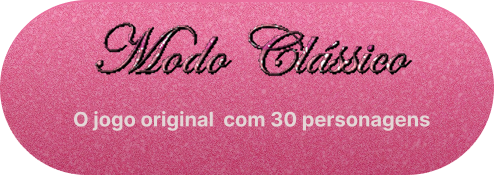
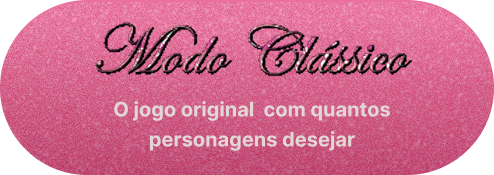
add personagens

Changed region(s): [[0.1518, 0.5714, 0.8806, 0.8571]]

diff --git a/src/pages/marrykiss/MarryKiss.jsx b/src/pages/marrykiss/MarryKiss.jsx
@@ -3,10 +3,6 @@ import { FaHeart, FaKiss, FaSkull, FaSave, FaArrowLeft, FaCheck, FaClock, FaCrow
 import html2canvas from 'html2canvas';
 import './MarryKiss.css';
 
-// const marrySound = new Audio('/sounds/plim.mp3');
-// const kissSound = new Audio('/sounds/kiss.mp3');
-// const killSound = new Audio('/sounds/roblox-death.mp3');
-
 const GameModeSelector = ({ onSelectMode }) => {
   const gameModes = [
     { id: 'classic', image: '/images/modo-classico.png' },
@@ -204,8 +200,6 @@ const [categories, setCategories] = useState([
   return (
     <div className="config-modal">
 
-
-
 <div className="config-content2 fundo-modo2">
   <div className="align-content">
     <img 
@@ -252,9 +246,6 @@ const [categories, setCategories] = useState([
     </button>
   </div>
 </div>
-
-
-
 
     </div>
   );
@@ -314,10 +305,10 @@ const GameScreen = ({ mode, config, onBack }) => {
 
   const characterPool = {
     heroes: ['clark-kent', 'tony-stark', 'batman', 'thor', 'superman', 'deadpool', 'capitao-america', 'loki', 'peter-parker', 'bucky'],
-    actors: ['wagner-moura', 'pedro-novaes', 'vladimir-brichta', 'the-rock', 'rodrigo-hilbert', 'michael-b-jordan', 'adriano', 'ronaldo-sobral', 'rodrigo-simas', 'tom-hiddleston', 'brad-pitt', 'leonardo-dicaprio', 'johnny-depp', 'tom-cruise', 'jason-momoa', 'keanu-reeves', 'ryan-reynolds', 'tom-holland', 'hugh-jackman'],
-    singers: ['harry-styles', 'justin-bieber', 'shawn-mendes', 'zayn-malik', 'bruno-mars'],
-    brazilians: ['wagner-moura', 'pedro-novaes', 'vladimir-brichta', 'rodrigo-hilbert', 'adriano', 'ronaldo-sobral', 'rodrigo-simas'],
-    characters: ['ben-10', 'damon-salvatore', 'christian-grey', 'dean-winchester', 'toretto', 'george-weasley', 'thomas-shelby', 'detona-ralph', 'sherlock-holmes', 'jack-frost', 'raposa-do-zootopia', 'harry-potter', 'draco-malfoy', 'croods', 'javier-pena']
+    actors: ['wagner-moura', 'pedro-novaes', 'vladimir-brichta', 'the-rock', 'rodrigo-hilbert', 'michael-b-jordan', 'adriano', 'ronaldo-sobral', 'rodrigo-simas', 'tom-hiddleston', 'brad-pitt', 'leonardo-dicaprio', 'johnny-depp', 'tom-cruise', 'jason-momoa', 'keanu-reeves', 'ryan-reynolds', 'tom-holland', 'hugh-jackman', 'jesus-turco', 'serkan-bolat', 'selton-mello', 'danton-mello', 'ryan-gosling', 'gerard-butler', 'rafael-silva', 'gabriel-leone', 'marco-pigossi', 'humberto-carrao', 'chay-suede', 'jonathan-bailey', 'alexandre-nero', 'eric-winter', 'rafa-vitti', 'carlo-porto', 'reynaldo-gianecchini', 'zac-efron'],
+    singers: ['harry-styles', 'justin-bieber', 'shawn-mendes', 'zayn-malik', 'bruno-mars', 'ze-felipe'],
+    brazilians: ['wagner-moura', 'pedro-novaes', 'vladimir-brichta', 'rodrigo-hilbert', 'adriano', 'ronaldo-sobral', 'rodrigo-simas', 'jesus-turco', 'selton-mello', 'danton-mello', 'rafael-silva', 'gabriel-leone', 'marco-pigossi', 'humberto-carrao', 'chay-suede', 'alexandre-nero', 'rafa-vitti', 'carlo-porto', 'reynaldo-gianecchini', 'ze-felipe'],
+    characters: ['ben-10', 'damon-salvatore', 'christian-grey', 'dean-winchester', 'toretto', 'george-weasley', 'thomas-shelby', 'detona-ralph', 'sherlock-holmes', 'jack-frost', 'raposa-do-zootopia', 'harry-potter', 'draco-malfoy', 'croods', 'javier-pena', 'romulo-estrela', 'peter-kavinsky', 'sam-winchester', 'tiago-larcerda', 'chandler-bing', 'derek-greys', 'colin-donnell', 'jacob-black', 'simon-basset', 'klaus-mikaelson']
   };
 
   const getConfig = () => {
@@ -472,16 +463,10 @@ const GameScreen = ({ mode, config, onBack }) => {
     try {
       switch (action) {
         case 'casa':
-          marrySound.currentTime = 0;
-          marrySound.play();
           break;
         case 'beija':
-          kissSound.currentTime = 0;
-          kissSound.play();
           break;
         case 'mata':
-          killSound.currentTime = 0;
-          killSound.play();
           break;
       }
     } catch (error) {
